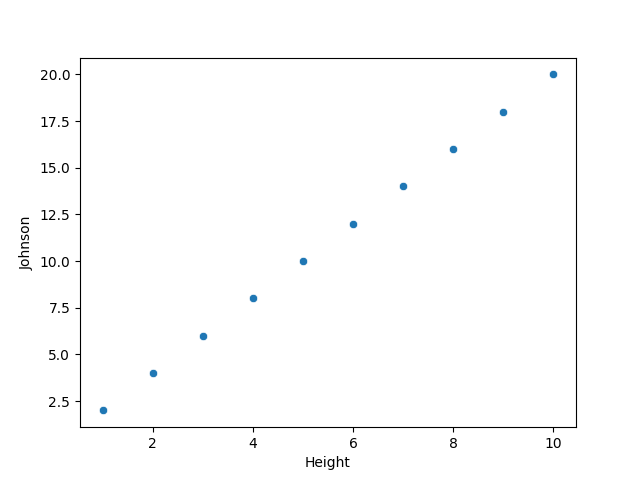
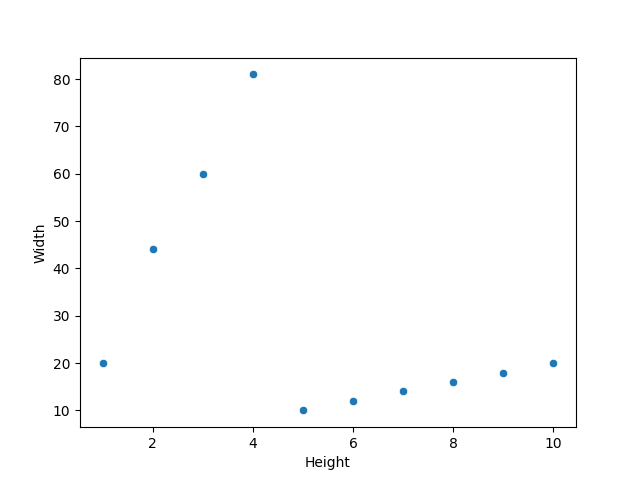
tehe

diff --git a/reportGeneration/reports/makeReport.py b/reportGeneration/reports/makeReport.py
@@ -37,28 +37,26 @@ try:
     to write to the pdf. Replace this shiii with yo analysis fool.
     """ 
     #Insert a title
-    pdf.insertTitle("CHEEEEEEESSSSSSSSSSSSSSSEEEEE!!!!!!!!!!!!!!")
+    pdf.insertTitle("HELLO CASA PEOPLE THIS IS AN EXAMPLE")
 
     #Insert a subheading
-    pdf.insertSubheading("Why I like it")
+    pdf.insertSubheading("This is a Subheading")
 
     #Insert a series of paragraphs
-    pdf.insertParagraphs(["Because it is yummy. auidhcnaiuc niu d c hp hbcoer vhew ourhvbspi eruvpeirvpie uvhpeiufpeufv","And it is tasty."])
+    pdf.insertParagraphs(["CASA is a very cool organization and we are excited to be working with them. Sea of Thieves is also cool. It is a very fun video game where you drive a BOAT around and dig up treasure."])
 
     #Insert a single paragraph
-    pdf.insertParagraph("Y are U GAY????")
-
+    pdf.insertParagraph("Hey would you look at that we can have multiple paragraphs in a document isnt that cool. I am now going to say gibberish to demonstrate is working. odcnapidcnaipsdcnapisdjcasdc asdic asdc asc nqic asc adc iadcp ad apnc ap apicj jdcn apdijc a.")
     #Insert a table (make sure to include header row in the matrix boy)
-    data = [["PenarSize","FootSize"],[12,10],[40,12],[10000,10000]]
+    pdf.insertSubheading("Hey a table thats cool!!")
+    data = [["Money","Donors"],[1,10],[2,20],[3,30],[4,40],[5,50]]
     cellWidths = [70,70]
     pdf.insertTable(data,cellWidths)
 
     #Insert a graph
-    '''
-    data = pd.DataFrame({"Height":[1,2,3,4,5,6,7,8,9,10],"Johnson":[2,4,6,8,10,12,14,16,18,20]})
-    plot = sns.scatterplot(data=data,x="Height",y="Johnson")
-    pdf.insertGraph(plot,5,5)
-    '''
+    data = pd.DataFrame({"Height":[1,2,3,4,5,6,7,8,9,10],"Width":[20,44,60,81,10,12,14,16,18,20]})
+    plot = sns.scatterplot(data=data,x="Height",y="Width")
+    pdf.insertGraph(plot,3,3) 
 
     #make the pdf (THIS MUST BE CALLED LAST)
     pdf.buildPDF()
